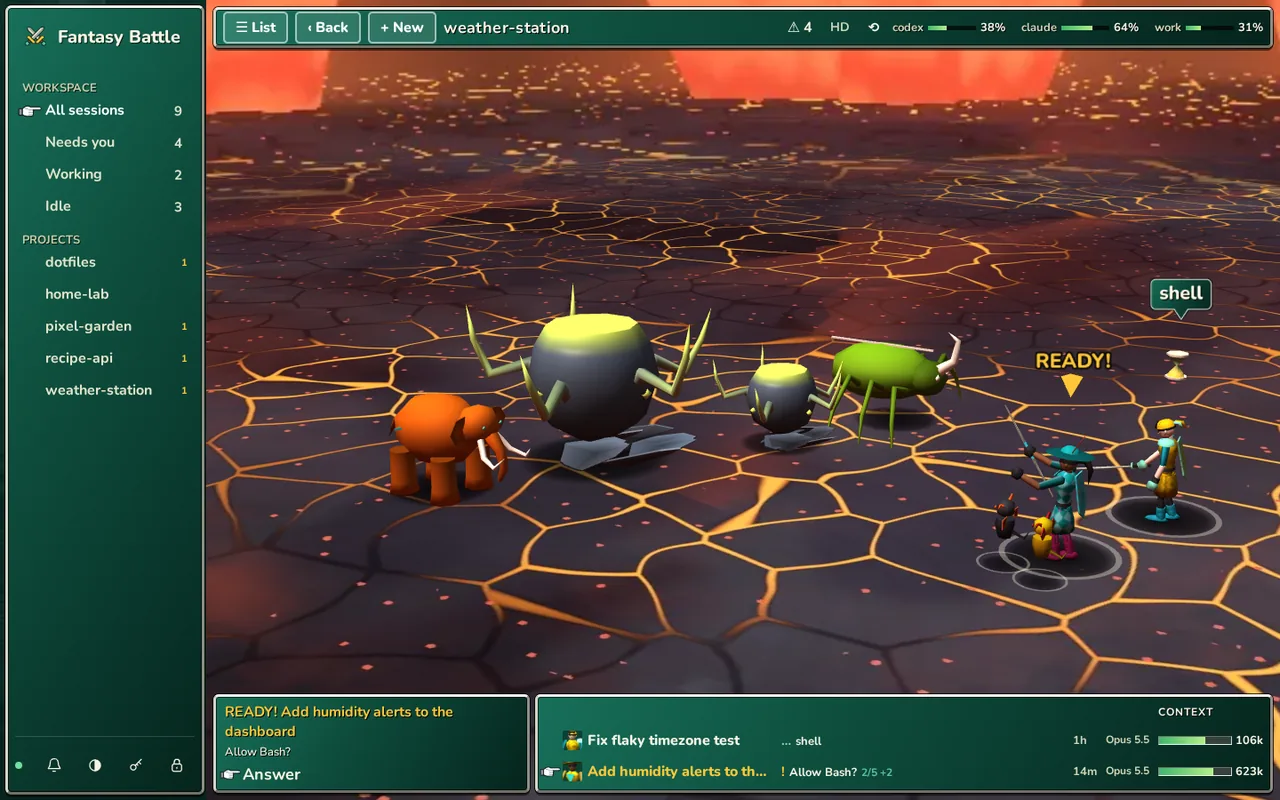
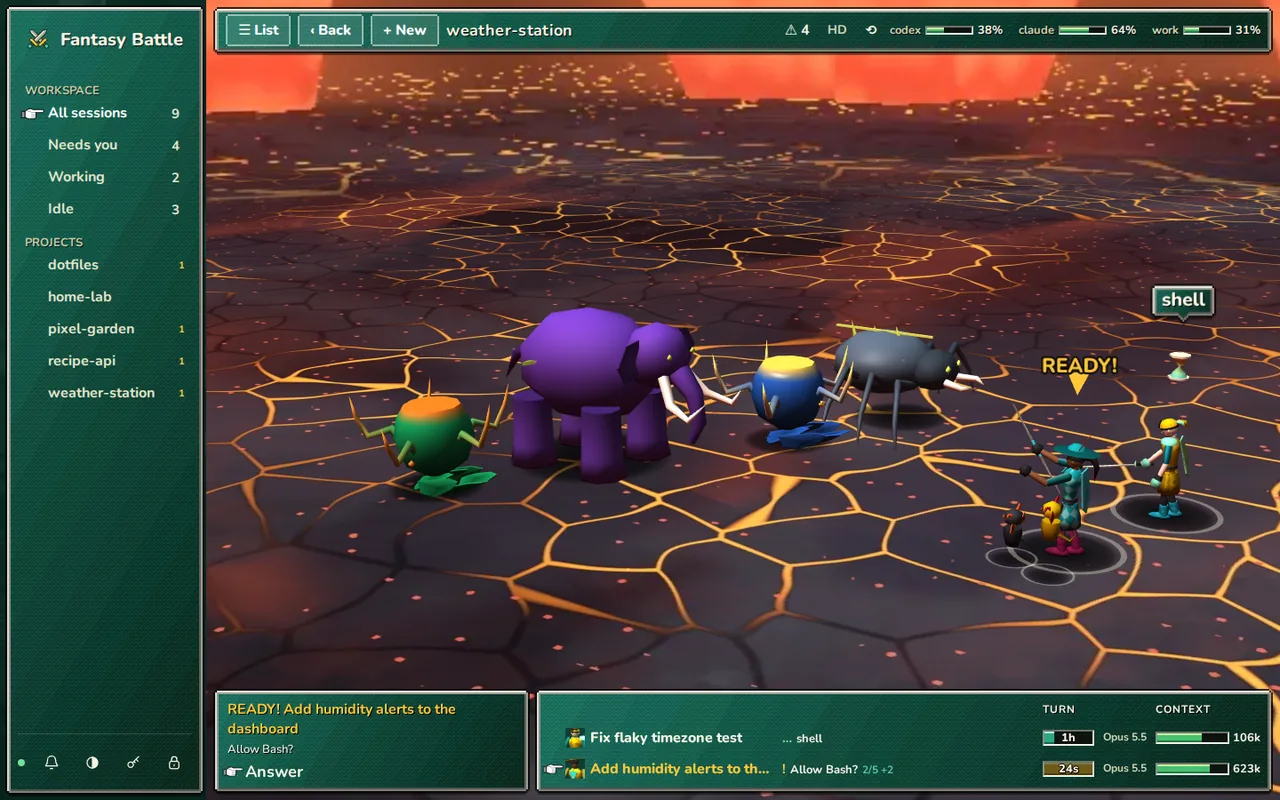
Fantasy: a turn gauge in the party window, and bigger bouncing damage numbers
The gauge shows how long this turn has run against the last one, and fills gold when it's your move. With no last turn to go by, as with Codex, a band sweeps instead of inventing a fill. Damage numbers land digit by digit and stay readable from any camera distance.

diff --git a/client/fantasy/hud.js b/client/fantasy/hud.js
@@ -2,7 +2,7 @@
 import { usageWindowView } from '../usage-presentation.js';
 import { paintPortrait } from './portraits.js';
 import { tileLayout } from './camera.js';
-import { hasTurn, hpBand, needsYou, tokens } from './roster.js';
+import { busy, hasTurn, hpBand, needsYou, tokens, turnGauge } from './roster.js';
 
 const GLYPH = { working: '⚔', thinking: '✦', compacting: '✚', permission: '!', question: '?', waiting: '…', idle: 'Zzz', done: '✓', error: '✕', offline: '○' };
 const WORD = { working: 'Working', thinking: 'Thinking', compacting: 'Compacting', permission: 'Needs approval', question: 'Has a question', waiting: 'Waiting', idle: 'Idle', done: 'Finished', error: 'Error', offline: 'Offline' };
@@ -25,6 +25,7 @@ export function elapsed(ms) {
 }
 const showsTime = state => needsYou(state) || state === 'waiting' || state === 'error' || state === 'compacting';
 // What this member is up to, in the fewest words that are still true.
+const gaugeWords = (member, gauge, time) => gauge.tone === 'ready' ? 'Your move' : gauge.tone === 'error' ? 'Stopped on an error' : [`${WORD[member.state]}${time ? ` ${time}` : ''}`, gauge.last && `last turn took ${elapsed(Date.now() - gauge.last)}`].filter(Boolean).join(', ');
 export function statusLine(member) {
   const { state, detail, request, job } = member;
   if (needsYou(state)) return request?.title || WORD[state];
@@ -43,9 +44,9 @@ const hovers = (node, actions) => {
 
 function createRow(actions) {
   const row = button('fy-row', null, '', () => actions.open(row.dataset.id));
-  const nm = el('span', 'fy-nm'), face = el('i'), name = el('span'), st = el('span', 'fy-st'), glyph = el('b'), line = el('span'), tag = el('i'), tm = el('span', 'fy-tm'), md = el('span', 'fy-md');
+  const nm = el('span', 'fy-nm'), face = el('i'), name = el('span'), st = el('span', 'fy-st'), glyph = el('b'), line = el('span'), tag = el('i'), tm = el('span', 'fy-tm'), turn = bar(), tmText = el('em'), md = el('span', 'fy-md');
   const hp = el('span', 'fy-bar'), hpBar = bar(), hpText = el('em');
-  nm.append(face, name); st.append(glyph, line, tag); hp.append(hpBar.track, hpText); row.append(nm, st, tm, md, hp);
+  nm.append(face, name); st.append(glyph, line, tag); hp.append(hpBar.track, hpText); tm.append(turn.track, tmText); row.append(nm, st, tm, md, hp);
   hovers(row, actions);
   return {
     row,
@@ -56,7 +57,8 @@ function createRow(actions) {
       row.setAttribute('aria-label', `${member.title}, ${WORD[member.state] || member.state}`); row.removeAttribute('title');
       paintPortrait(face, member.session); put(name, member.title); put(md, member.model); put(glyph, GLYPH[member.state] || '·'); put(line, status);
       put(tag, [member.mode === 'berserk' ? 'Berserk' : member.mode === 'scan' ? 'Scan' : '', member.plan ? `${member.plan.done}/${member.plan.total}` : '', minions ? `+${minions}` : ''].filter(Boolean).join(' '));
-      put(tm, showsTime(member.state) ? elapsed(sinceOf(member)) : '');
+      const gauge = turnGauge(member), time = showsTime(member.state) || busy(member.state) ? elapsed(sinceOf(member)) : '';
+      cls(tm, `fy-tm${gauge ? ` ${gauge.tone}` : ''}${gauge?.urgent ? ' urgent' : ''}${gauge && gauge.ratio == null ? ' unknown' : ''}`); turn.track.hidden = !gauge; fill(turn.inner, (gauge?.ratio ?? 0) * 100); put(tmText, time); tip(tm, gauge ? gaugeWords(member, gauge, time) : '');
       cls(hp, `fy-bar${band ? ` ${band}` : ''}`); fill(hpBar.inner, (member.hp?.ratio ?? 0) * 100); put(hpText, member.hp ? tokens(member.hp.left) : '—'); tip(hp, member.hp ? `${tokens(member.hp.left)} left before it compacts` : 'Context not reported');
       tip(tag, [member.mode === 'berserk' ? 'Berserk: asks for no permissions' : member.mode === 'scan' ? 'Scan: plan mode, changes nothing yet' : '', member.plan ? `${member.plan.done} of ${member.plan.total} plan steps done` : '', minions ? `${minions} subagent${minions > 1 ? 's' : ''}` : ''].filter(Boolean).join(', ')); tip(md, 'Model');
     },
@@ -139,7 +141,8 @@ export function createHud(box, actions) {
   const foes = el('div', 'fy-foes win'), ask = el('div', 'fy-ask win'), askShout = el('b'), askText = el('p'), answer = el('button', 'fy-answer', 'Answer'), party = el('div', 'fy-party win'), head = el('div', 'fy-row fy-head');
   answer.type = 'button'; answer.onclick = () => askId && actions.open(askId);
   const contextHead = el('span', '', 'Context'); contextHead.title = 'Room left before this session has to compact';
-  head.append(el('span', '', ''), el('span', '', ''), el('span', '', ''), el('span', 'fy-md', ''), contextHead);
+  const turnHead = el('span', '', 'Turn'); turnHead.title = 'How long this turn has run, against the last one. Full: your move';
+  head.append(el('span', '', ''), el('span', '', ''), turnHead, el('span', 'fy-md', ''), contextHead);
   const foeList = el('div', 'fy-foelist'), sum = el('div', 'fy-sum'); foes.append(foeList, sum);
   ask.append(askShout, askText, answer); banner.append(bannerName, bannerLine); party.append(head); wins.append(foes, ask, party); hud.append(banner, spacer, wins);
   body.append(tiles, hud, empty); ui.append(top, body); box.append(ui);

diff --git a/client/fantasy/fx.js b/client/fantasy/fx.js
@@ -19,7 +19,7 @@ function flare() {
 }
 
 // Words drawn once in the theme's face. Numbers come and go, so these are kept to a limit.
-const LABELS = new Map(), LABEL_LIMIT = 80;
+const LABELS = new Map(), LABEL_LIMIT = 80, LABEL_PAD = .28, NUMBER_SIZE = 1.25;
 export function labelTexture(text, color) {
   const key = `${text}|${color}`;
   let label = LABELS.get(key);
@@ -110,7 +110,7 @@ export class Effects {
     if (this.live.length >= CAP) return null;
     let sprite = this.sprites.pop();
     if (!sprite) { sprite = new THREE.Sprite(new THREE.SpriteMaterial({ transparent: true, depthTest: false, depthWrite: false, toneMapped: false })); sprite.frustumCulled = false; this.scene.add(sprite); }
-    sprite.visible = true; sprite.material.map = map; sprite.material.color.setHex(color, THREE.LinearSRGBColorSpace); sprite.material.opacity = 1; sprite.material.blending = additive ? THREE.AdditiveBlending : THREE.NormalBlending;
+    sprite.visible = true; sprite.center.set(.5, .5); sprite.material.map = map; sprite.material.color.setHex(color, THREE.LinearSRGBColorSpace); sprite.material.opacity = 1; sprite.material.blending = additive ? THREE.AdditiveBlending : THREE.NormalBlending;
     return sprite;
   }
   run(thing, life, step, pool) { this.live.push({ thing, life, step, t: 0, pool }); return thing; }
@@ -218,11 +218,24 @@ export class Effects {
   }
   flare(position, color, size = 2, life = .35) { const sprite = this.sprite(flare(), color, true); if (!sprite) return; sprite.position.copy(position); sprite.renderOrder = 6; this.run(sprite, life, p => { sprite.scale.setScalar(size * (1 + p * .5)); sprite.material.opacity = 1 - p; }, this.sprites); }
   // Words fly with or without motion; a calm screen still needs them.
+  // A number's digits land one after another, each with its own bounce. However far the camera stands, none is smaller on screen than the bubbles beside it, and it bounces as far as it looks.
   number(position, text, color, height = .62) {
-    const label = labelTexture(text, color), sprite = this.sprite(label.texture); if (!sprite) return;
-    sprite.position.copy(position); sprite.position.x += (Math.random() - .5) * .5; sprite.scale.set(height * label.aspect, height, 1); sprite.renderOrder = 22;
-    let v = this.calm ? 0 : 3.6; const floor = position.y;
-    this.run(sprite, 1.15, (p, d) => { if (!this.calm) { v -= 15 * d; sprite.position.y += v * d; if (sprite.position.y < floor) { sprite.position.y = floor; v = Math.abs(v) * .42; } } sprite.material.opacity = p > .75 ? (1 - p) * 4 : 1; }, this.sprites);
+    const digits = !this.calm && /^[-+][\d.]+[kM]?$/.test(text), labels = (digits ? [...text] : [text]).map(part => labelTexture(part, color));
+    const widths = labels.map(label => label.aspect - LABEL_PAD), total = widths.reduce((all, width) => all + width, 0), drift = (Math.random() - .5) * .5, floor = position.y;
+    let left = -total / 2;
+    labels.forEach((label, i) => {
+      const sprite = this.sprite(label.texture); if (!sprite) return;
+      const middle = left + widths[i] / 2, wait = i * .05; left += widths[i];
+      sprite.position.copy(position); sprite.position.x += drift; sprite.center.x = .5 - middle / label.aspect; sprite.renderOrder = 22; sprite.material.opacity = 0;
+      let v = this.calm ? 0 : 3.6, y = 0, t = 0;
+      this.run(sprite, 1.15 + wait, (p, d) => {
+        const size = Math.max(height, this.world * this.camera.position.distanceTo(sprite.position) * NUMBER_SIZE);
+        sprite.scale.set(size * label.aspect, size, 1);
+        t += d; if (t < wait) return;
+        if (!this.calm) { v -= 15 * d; y += v * d; if (y < 0) { y = 0; v = Math.abs(v) * .42; } }
+        sprite.position.y = floor + y * size / .62; sprite.material.opacity = p > .75 ? (1 - p) * 4 : 1;
+      }, this.sprites);
+    });
   }
   circle(position, color, life = .8, radius = 1.2) {
     for (const [geometry, turn, scale] of [[RING, 0, 1], [SQUARE, 0, .8], [SQUARE, Math.PI / 4, .8]]) {

diff --git a/client/fantasy/fantasy.css b/client/fantasy/fantasy.css
@@ -131,7 +131,21 @@
 .fy-st b { font: 700 15px var(--ui); }
 .fy-st span { white-space: nowrap; overflow: hidden; text-overflow: ellipsis; min-width: 0; }
 .fy-st i { font: 700 12px var(--ui); font-style: normal; color: var(--teal); white-space: nowrap; flex: none; }
-.fy-tm { font-size: 13px; color: var(--dim); font-variant-numeric: tabular-nums; }
+/* The turn gauge, the time in it. A slot as the bars have, with no number that isn't real. */
+.fy-tm { position: relative; display: block; width: 58px; min-height: 18px; font-size: 13px; color: var(--ink); font-variant-numeric: tabular-nums; }
+.fy-tm u { position: absolute; inset: 1px 0; overflow: hidden; background: #0c140e; border: 2px solid; border-color: var(--sunk); text-decoration: none; }
+.fy-tm u b { display: block; height: 100%; background: linear-gradient(#b4f0e0 0 2px, #2ca888 0 calc(100% - 2px), #146850 0); }
+.fy-tm.ready u b { background: linear-gradient(#fff0a0 0 2px, #e8b020 0 calc(100% - 2px), #986818 0); }
+.fy-tm.error u b { background: var(--fill-bad); }
+.fy-tm em { position: relative; display: block; font-style: normal; font-weight: 800; line-height: 18px; text-align: center; text-shadow: 1px 1px 0 #000, -1px 0 0 #000, 0 -1px 0 #000, 1px 0 0 #000, 0 1px 0 #000; }
+/* Nothing to measure against: a band goes across instead of pretending to fill. */
+.fy-tm.unknown u b { width: 34% !important; }
+@media (prefers-reduced-motion: no-preference) {
+  .fy-tm.unknown u b { animation: fy-turn-sweep 1.6s linear infinite; will-change: transform; }
+  .fy-tm.urgent u b { animation: fy-turn-urgent 1s steps(2, jump-none) infinite; }
+}
+@keyframes fy-turn-sweep { from { transform: translateX(-100%); } to { transform: translateX(300%); } }
+@keyframes fy-turn-urgent { from { opacity: 1; } to { opacity: .45; } }
 .fy-row.ready .fy-nm, .fy-row.ready .fy-st b { color: var(--ready); }
 .fy-row.error .fy-st { color: var(--bad); }
 .fy-row.faded > * { opacity: .6; }
@@ -201,7 +215,9 @@
   .fy-limit i { width: 22px; }
   .fy-wins { grid-template-columns: minmax(0, 1fr); }
   .fy-foes { display: none; }
-  .fy-party { grid-template-columns: minmax(90px, 42%) minmax(0, 1fr) auto 62px; font-size: 15px; }
+  .fy-party { grid-template-columns: minmax(80px, 33%) minmax(0, 1fr) auto 62px; column-gap: 6px; font-size: 15px; }
+  .fy-tm { width: 38px; }
+  .fy-st i { display: none; }
   .fy-party .fy-md { display: none; }
   .fy-limit em { display: none; }
 }

diff --git a/client/fantasy/fight.js b/client/fantasy/fight.js
@@ -46,6 +46,7 @@ export class Fight {
     this.plates = stage.plates.dress(this.scene, data.place, stage.low(), data.time);
     this.fx = new Effects(this.scene, stage.calm); this.fx.low = stage.low;
     this.camera = new THREE.PerspectiveCamera(FOV, 1.5, .2, 600);
+    this.fx.camera = this.camera; this.fx.world = 0;
     this.motes = motesOf(data.place); this.scene.add(this.motes);
     this.taken = new Set();
     this.cursor = new THREE.Mesh(stage.props.cone, new THREE.MeshBasicMaterial({ color: raw(0xf3ead2), toneMapped: false })); this.cursor.visible = false; this.scene.add(this.cursor);
@@ -649,7 +650,7 @@ export class Fight {
   // A bubble keeps its size on screen however far the camera stands. The lowest on screen stays put, each one that would cover it climbs above, and any at the edge of the frame slides in. Done in the sprite's own centre, so it's a move on screen whatever the camera's doing.
   placeBubbles(w, h, top, tall, dt) {
     const world = tall * 2 * Math.tan(FOV * Math.PI / 360) / h, list = [], clear = tall * .84, ease = this.stage.calm ? 1 : Math.min(1, dt * 12);
-    this.camera.updateMatrixWorld();
+    this.camera.updateMatrixWorld(); this.fx.world = world;
     for (const member of this.members.values()) {
       // A mark is as big as it's built up close, and from far off never smaller than the bubbles beside it. It grows upward, off whoever's under it.
       const { mark } = member;

diff --git a/client/fantasy/roster.js b/client/fantasy/roster.js
@@ -60,6 +60,15 @@ export function hpOf(context) {
   const size = context.window || (used > 200_000 ? 1_000_000 : 200_000), max = size * .83, left = Math.max(0, max - used);
   return { used, left, max, ratio: Math.min(1, left / max) };
 }
+// The turn gauge. Full is your move. Filling is how long this turn has run against how long the last one took, which is all anyone knows of how long this one will take, so it never quite fills on its own; with no last turn to go by there's no fill, only `ratio: null`.
+export function turnGauge({ state, session }, now = Date.now()) {
+  if (needsYou(state)) return { tone: 'ready', ratio: 1, urgent: true };
+  if (state === 'done') return { tone: 'ready', ratio: 1 };
+  if (state === 'error') return { tone: 'error', ratio: 1 };
+  if (!busy(state) && state !== 'waiting') return null;
+  const last = session?.lastTurnMs, at = session?.statusSince, since = typeof at === 'number' ? at : Date.parse(at), steady = state === 'working' || state === 'thinking';
+  return { tone: 'charge', ratio: steady && last > 0 && Number.isFinite(since) ? Math.min(.97, Math.max(0, (now - since) / last)) : null, last: steady && last > 0 ? last : null };
+}
 export const hpBand = ratio => ratio == null ? '' : ratio < .1 ? 'crit' : ratio < .25 ? 'low' : '';
 export const tokens = n => n >= 1e6 ? `${(n / 1e6).toFixed(1)}M` : n >= 1000 ? `${(n / 1000).toFixed(n < 10_000 ? 1 : 0)}k` : String(Math.round(n));
 
